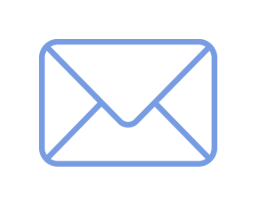
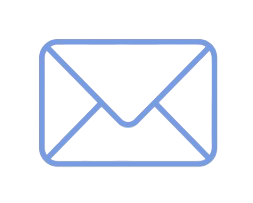
muuuchos cambios pro

diff --git a/style.css b/style.css
@@ -30,15 +30,21 @@ rie-estatico {
 header {
   background-color: white;
   width: 100%;
-  padding: 20px 40px;
-  display: flex;
-  align-items: center;
-  justify-content: space-between;
-  border-bottom: 1px solid #eee;
-  flex-wrap: wrap;
-  position: sticky;
+  display: block;
+}
+
+/* Div con logo e iconos - FIXED */
+header > div:first-child {
+  position: fixed;
   top: 0;
+  left: 0;
+  right: 0;
   z-index: 1000;
+  background-color: rgba(255, 255, 255, 0.6);
+  backdrop-filter: blur(10px);
+  width: 100%;
+  padding-bottom: 0;
+  border-bottom: none;
 }
 
 .logo {
@@ -65,7 +71,7 @@ nav a, nav.menu-desktop a {
 .menu-item-con-submenu {
   position: relative;
   display: inline-block;
-  margin-left: 20px;
+  margin-left: 0;
 }
 
 .menu-item-con-submenu > a {
@@ -135,10 +141,31 @@ nav.menu-desktop a:hover {
 .menu-desktop {
   display: flex;
   gap: 1.2rem;
-  margin-top: 1.2rem;
-  margin-bottom: 1.2rem;
+  margin-top: 110px;
+  margin-bottom: 0;
   width: 100%;
   justify-content: space-around;
+  padding: 1rem 2rem;
+  background-color: rgba(255, 255, 255, 0.6);
+  backdrop-filter: blur(10px);
+  border-bottom: 1px solid rgba(238, 238, 238, 0.3);
+  flex-wrap: wrap;
+}
+
+/* Menú de escritorio */
+nav a, nav.menu-desktop a {
+  margin-left: 0;
+  text-decoration: none;
+  color: #99c2f2;
+  font-weight: 600;
+  transition: color 0.3s ease;
+  position: relative;
+  padding: 8px 22px;
+  border-radius: 30px;
+  background: transparent;
+  display: inline-block;
+  border: 2px solid #789ce2;
+  box-shadow: none;
 }
 
 /* Menú móvil */
@@ -296,6 +323,16 @@ nav.menu-desktop a:hover {
   }
   .menu-mobile {
     display: flex !important;
+    margin-top: 110px;
+    width: 100%;
+    justify-content: flex-start;
+    padding: 1rem 2rem;
+    background-color: white;
+    border-bottom: 1px solid #eee;
+  }
+  
+  .email-solo-desktop {
+    display: none !important;
   }
 }
 
@@ -441,16 +478,17 @@ nav.menu-desktop a:hover {
 .destacados-inicio {
   display: flex;
   justify-content: center;
-  gap: 2rem;
+  gap: 3rem;
   flex-wrap: wrap;
-  padding: 2rem 1rem;
+  padding: 2rem 0;
+  margin-bottom: 4rem;
   color: #789ce2;
 }
 .card-icono {
   background: #f5fafa;
   border-radius: 10px;
-  padding: 1.5rem;
-  width: 250px;
+  padding: 2rem;
+  width: 350px;
   text-align: center;
   box-shadow: 0 2px 8px rgba(0, 0, 0, 0.1);
 }
@@ -644,7 +682,7 @@ nav.menu-desktop a:hover {
 
 /* ===================== SECCIONES GENERALES ===================== */
 section {
-  padding: 60px 20px;
+  padding: 40px 0;
   width: 100%;
   margin: 0;
 }
@@ -664,10 +702,10 @@ section {
 #nosotros,
 #contacto {
   background-color: rgba(255, 255, 255, 0.9);
-  border-radius: 12px;
-  box-shadow: 0 4px 12px rgba(0, 0, 0, 0.05);
-  padding: 20px;
-  margin-bottom: 40px;
+  border-radius: 0;
+  box-shadow: none;
+  padding: 20px 40px;
+  margin-bottom: 0;
   animation: fadeInUp 0.7s ease-in-out;
 }
 .tratamiento h3,
@@ -797,17 +835,17 @@ section {
 /* ===================== FOOTER ===================== */
 footer {
   text-align: center;
-  padding: 30px;
+  padding: 5px 10px;
   background-color: #8ea8de;
   color: #333;
-  font-size: 0.95rem;
+  font-size: 0.65rem;
 }
 footer p {
-  margin: 5px 0;
+  margin: 1px 0;
 }
 footer .info {
-  margin-top: 15px;
-  font-size: 0.9rem;
+  margin-top: 3px;
+  font-size: 0.6rem;
   color: #555;
 }
 
@@ -989,24 +1027,24 @@ footer .info {
 /* ===================== SECCIONES PRINCIPALES ===================== */
 #odontologia, #protesis-oculares, #equipo, #contacto, #nosotros {
   background-color: rgba(250, 249, 249, 0.95);
-  padding: 20px 20px;
-  border-radius: 10px;
-  max-width: 1000px;
-  margin: 40px auto;
-  box-shadow: 0 4px 12px rgba(115, 255, 112, 0.05);
+  padding: 20px 40px;
+  border-radius: 0;
+  max-width: none;
+  margin: 0;
+  box-shadow: none;
   animation: fadeInUp 0.7s ease-in-out;
 }
 
 /* Imagen grande igual en ambas secciones */
 .foto-seccion-grande {
   width: 100%;
-  max-width: 1100px;
+  max-width: none;
   height: 320px;
   object-fit: cover;
   display: block;
-  margin: 30px auto 40px auto;
-  border-radius: 18px;
-  box-shadow: 0 2px 16px rgba(0,0,0,0.08);
+  margin: 30px 0 40px 0;
+  border-radius: 0;
+  box-shadow: none;
 }
 
 @media (max-width: 700px) {
@@ -1023,11 +1061,11 @@ footer .info {
 /* ===================== PRÓTESIS OCULARES ===================== */
 #protesis-oculares {
   background-color: rgba(255, 255, 255, 0.95);
-  padding: 40px 20px;
-  border-radius: 12px;
-  max-width: 1000px;
-  margin: 40px auto;
-  box-shadow: 0 4px 12px rgba(0, 0, 0, 0.05);
+  padding: 40px 40px;
+  border-radius: 0;
+  max-width: none;
+  margin: 0;
+  box-shadow: none;
   animation: fadeInUp 0.7s ease-in-out;
 }
 #protesis-oculares h2 {

diff --git a/index.html b/index.html
@@ -123,15 +123,6 @@
                     <p>Combinamos lo artístico con lo tecnológico para una atención única.</p>
                 </div>
             </div>
-
-
-            <!-- Testimonio -->
-            <div class="testimonio-inicio">
-                <blockquote>
-                    "Volver a mirarme al espejo y sonreír sin miedo, fue el mejor regalo que me hicieron en RIE."
-                </blockquote>
-                <p class="firma-testimonio">— Paciente de RIE</p>
-            </div>
         </section>
 
 
@@ -1417,8 +1408,9 @@ sin perder precisión ni calidad.</p>
                         <a href="tel:+59827081013" id="telefono-footer" style="text-decoration: underline;">
                             +598 2708 1013
                         </a>
-                        <a href="tel:+59891664488" id="telefono-footer" style="text-decoration: underline;"> +598 91 664
-                            488</a>
+                    </p>
+                    <p>
+                        <a href="tel:+59891664488" style="text-decoration: underline;"> +598 91 664 488</a>
                     </p>
                 </div>
             </div>
